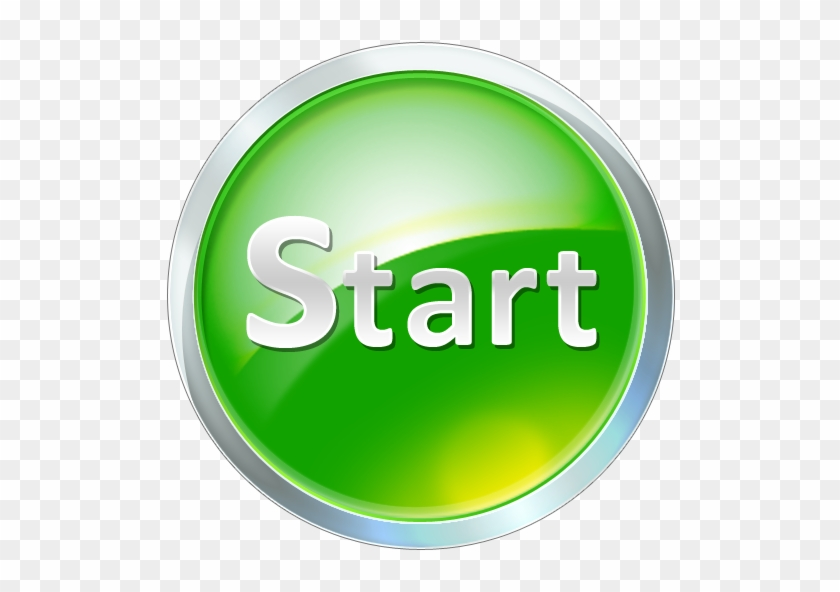
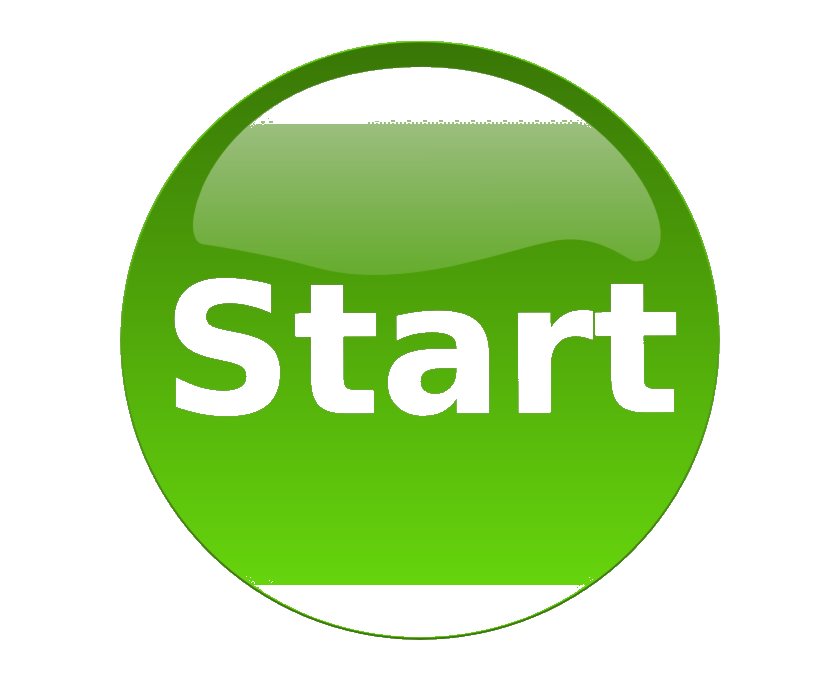
created the tool bar buttons

diff --git a/src/ToolBar.cpp b/src/ToolBar.cpp
@@ -1,17 +1,40 @@
 #include "ToolBar.h"
+#include <iostream>
 
-auto start = sf::Texture();
-auto help = sf::Texture();
-auto exitGame = sf::Texture();
+const int WIDTH = 500;
+const int HEIGHT = 500;
+const int BUTTONS = 3;
 
 ToolBar::ToolBar()
 {
-	start.loadFromFile("Start.png");
-	auto startImg = sf::Sprite(start);
-	help.loadFromFile("Help.png");
-	auto helpImg = sf::Sprite(help);
-	exitGame.loadFromFile("Exit.png");
-	auto exitImg = sf::Sprite(exitGame);
+	m_startGame.loadFromFile("Start.png");
+	auto startImg = sf::Sprite(m_startGame);
+	m_toolButtons.push_back(startImg);
 
+	m_help.loadFromFile("Help.png");
+	auto helpImg = sf::Sprite(m_help);
+	m_toolButtons.push_back(helpImg);
 
+	m_exitGame.loadFromFile("Exit.png");
+	auto exitImg = sf::Sprite(m_exitGame);
+	m_toolButtons.push_back(exitImg);
+
+	initializeImage();
+}
+
+void ToolBar::initializeImage()
+{
+	for (int counter = 0; counter < BUTTONS; counter++)
+	{
+		sf::Vector2f toolLoc(float(WIDTH / 2), float((HEIGHT / 6)*(counter+1)));
+		sf::Vector2f toolScale(0.1f, 0.1f);
+		m_toolButtons[counter].setOrigin(sf::Vector2f(m_toolButtons[counter].getTexture()->getSize() / 2u));
+		m_toolButtons[counter].setPosition(toolLoc);
+		m_toolButtons[counter].scale(toolScale);
+	}
+}
+
+std::vector <sf::Sprite> ToolBar::getToolButtons()
+{
+	return m_toolButtons;
 }

diff --git a/src/Controller.cpp b/src/Controller.cpp
@@ -1,33 +1,26 @@
 #include "Controller.h"
+#include <iostream>
+
+const int BUTTONS = 3;
 
 Controller::Controller(int width, int height)
     : m_width(width),
     m_height(height),
     m_window(sf::VideoMode(width, height), "Save The King")
 {
-    while (m_window.isOpen())
-    {
-        m_window.clear();
-        //draw tool bar
-        m_window.display();
-        if (auto event = sf::Event{}; m_window.waitEvent(event))
-        {
-            switch (event.type)
-            {
-            case sf::Event::Closed: //if the user closes the window then close the window and exit
-                m_window.close();
-                break;
-            }
-        }
-    }
 }
 
 void Controller::operateGame()
 {
+    std::cout << "here\n";
+    ToolBar tool;
     while (m_window.isOpen())
     {
         m_window.clear();
-        //draw tool bar
+        for (int counter = 0; counter < BUTTONS; counter++)
+        {
+            m_window.draw(tool.getToolButtons()[counter]);
+        }
         m_window.display();
         if (auto event = sf::Event{}; m_window.waitEvent(event))
         {

diff --git a/include/ToolBar.h b/include/ToolBar.h
@@ -1,15 +1,17 @@
 #pragma once
-
 #include <SFML/Graphics.hpp>
 #include <vector>
 
-class ToolBar {
+class ToolBar
+{
 public:
 	ToolBar();
-
+	std::vector <sf::Sprite> getToolButtons();
+	void initializeImage();
 
 private:
-	std::vector <sf::Sprite> tools;
-
-
- };
+	std::vector <sf::Sprite> m_toolButtons;
+	sf::Texture m_startGame;
+	sf::Texture m_help;
+	sf::Texture m_exitGame;
+};

diff --git a/src/main.cpp b/src/main.cpp
@@ -1,14 +1,14 @@
 #include <iostream>
-//#include "Controller.h"
+#include "Controller.h"
 
-//#include <thread>
+const int WIDTH = 500;
+const int HEIGHT = 500;
 
 
-//const int WIDTH = 500;
-//const int HEIGHT = 500;
-
-int main ()
+int main()
 {
-
-    std::cout << "here\n";
+	Controller gameControl(WIDTH,HEIGHT);
+	gameControl.operateGame();
+	
+	return 0;
 }

diff --git a/include/Controller.h b/include/Controller.h
@@ -1,5 +1,6 @@
 #pragma once
 #include <SFML/Graphics.hpp>
+#include "ToolBar.h"
 
 class Controller {
 public:
